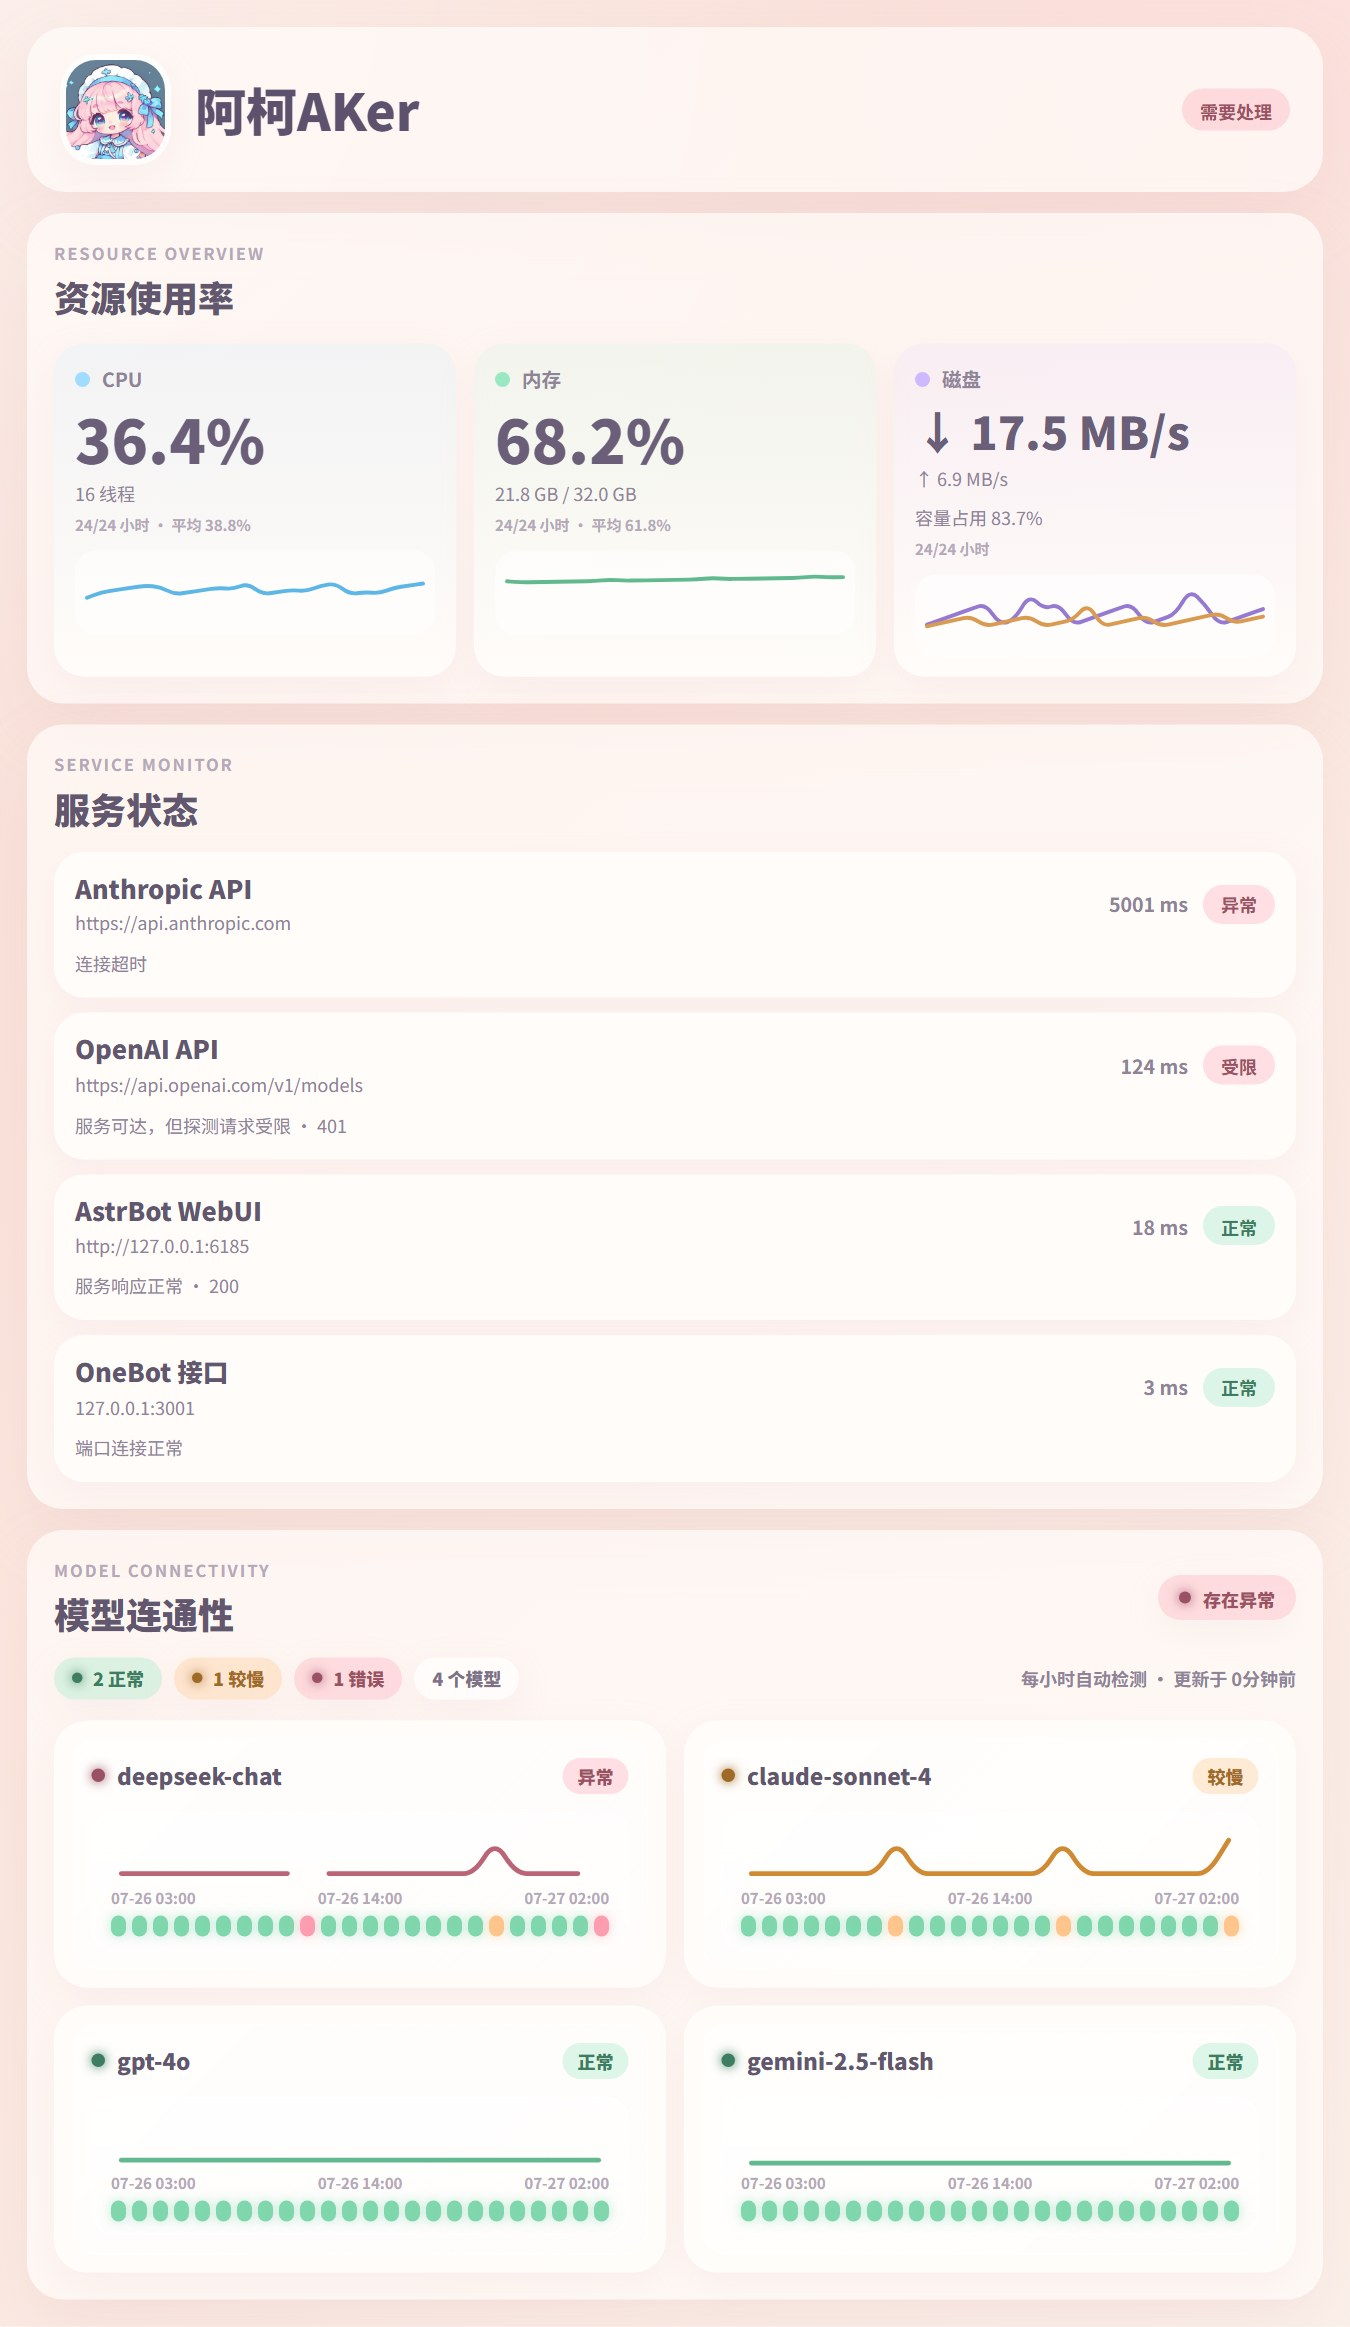
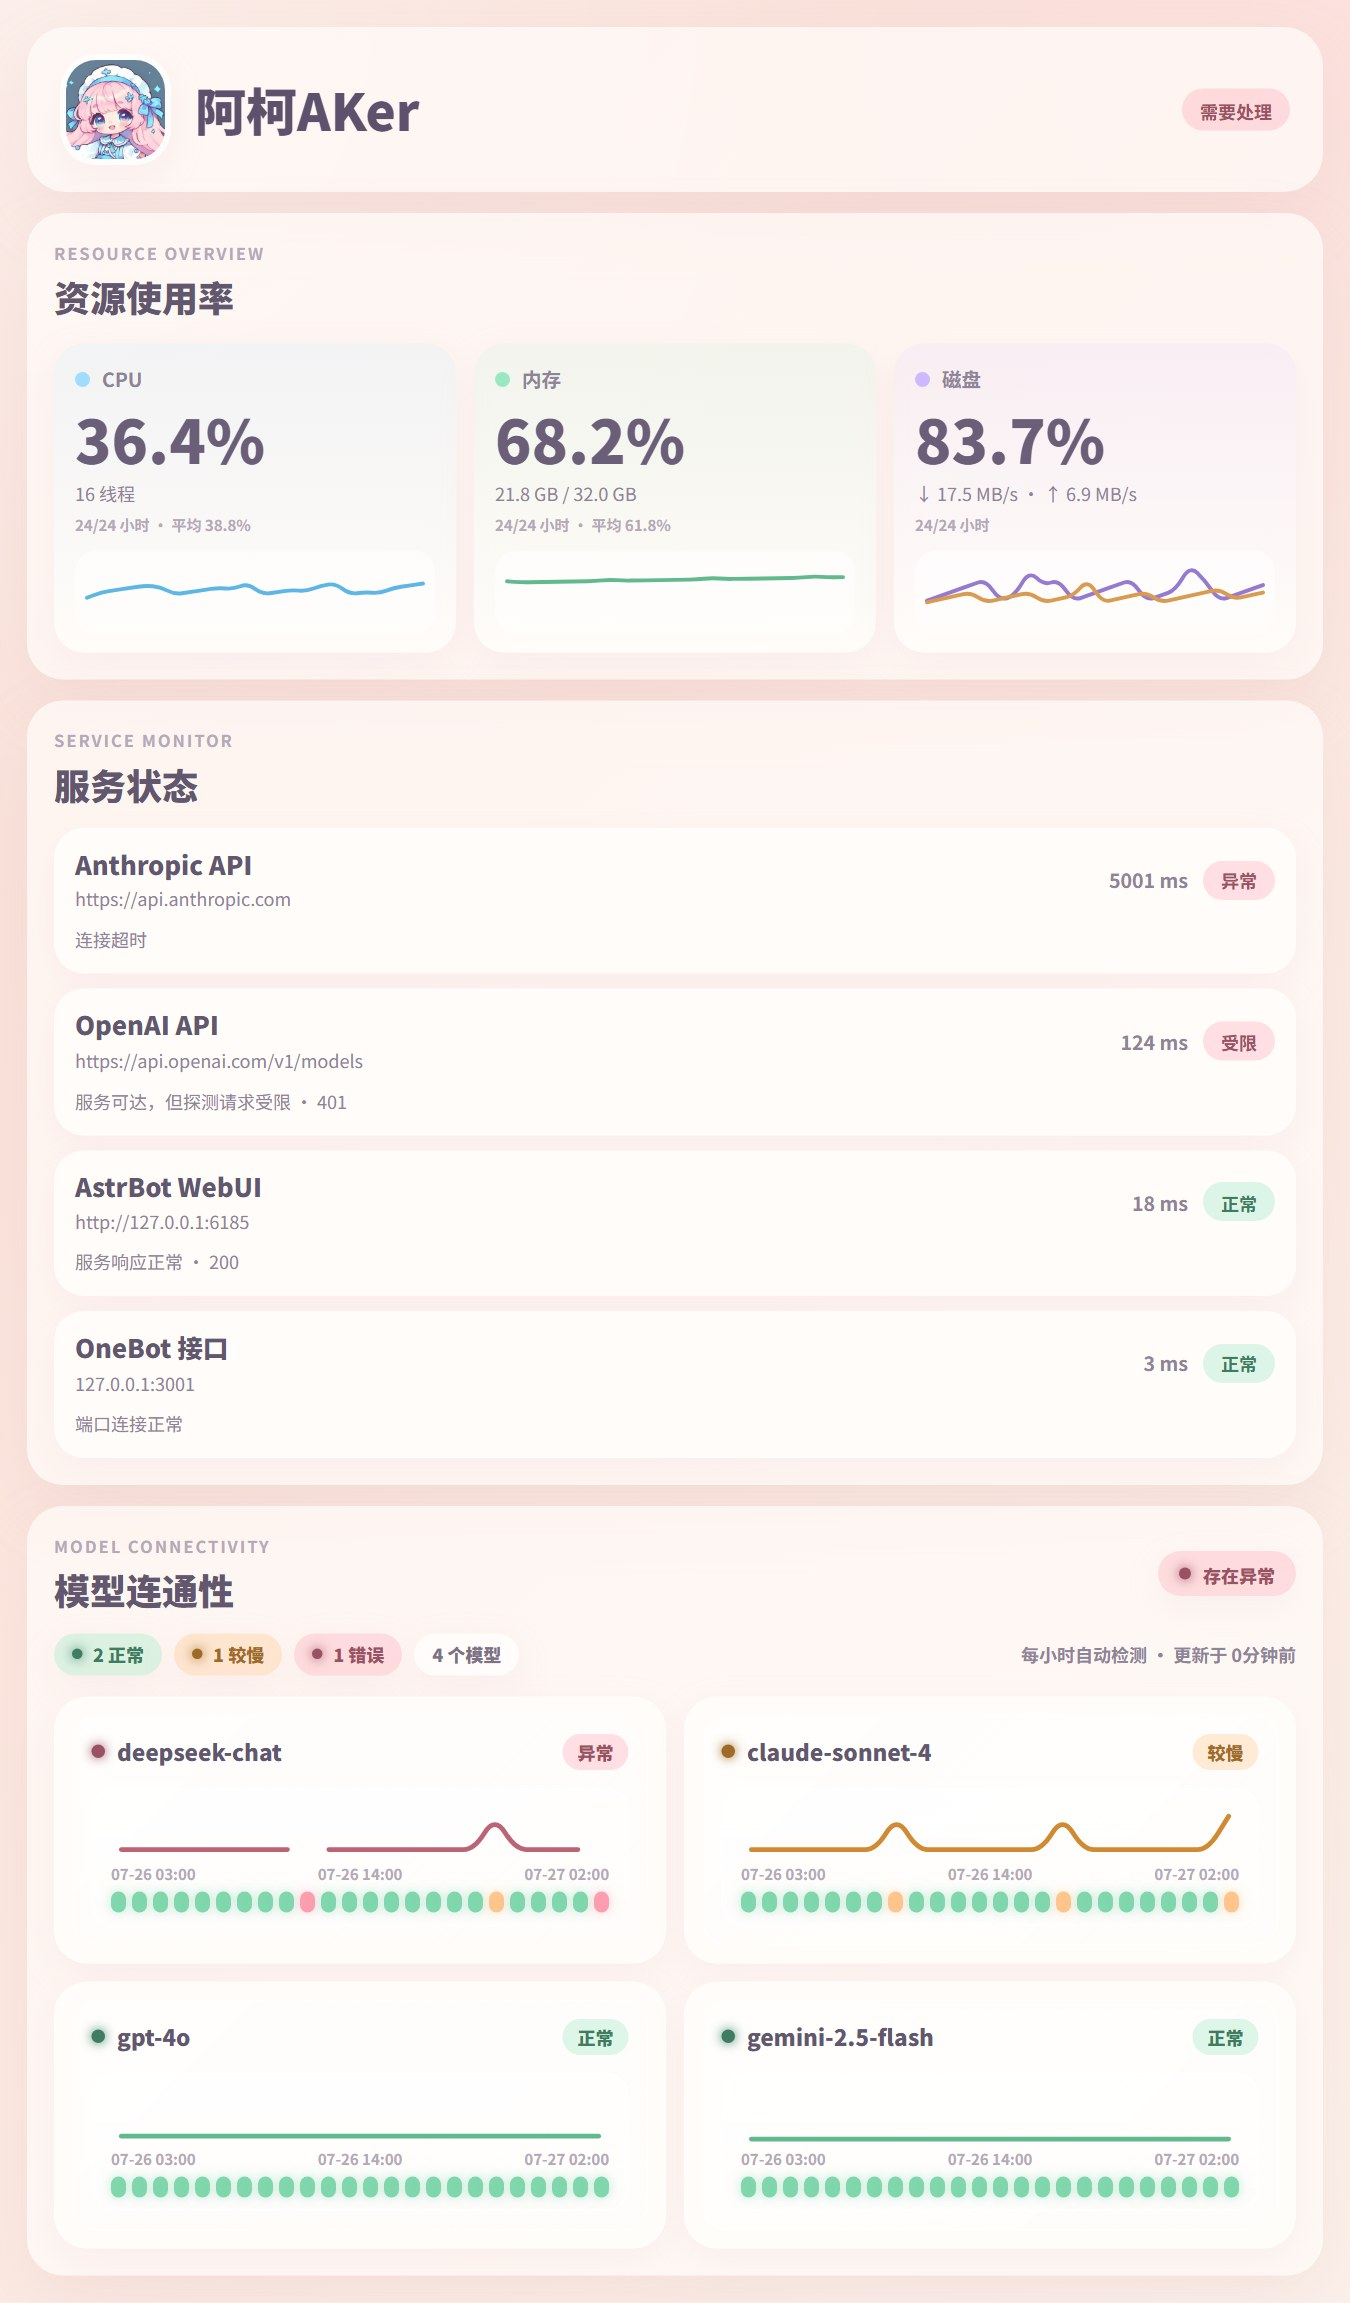
refactor(disk widget): adjust disk metric display layout and data
调整磁盘监控组件的展示逻辑：将磁盘使用率作为主显示值，合并读写速率到详情栏，移除冗余的meter-value-rate样式类，同步更新测试用例和静态预览文件

diff --git a/output_test.html b/output_test.html
@@ -259,11 +259,6 @@ body {
 	color: #6a5e79;
 }
 
-.meter-value-rate {
-	font-size: 30px;
-	white-space: nowrap;
-}
-
 .meter-detail {
 	margin-top: 8px;
 	font-size: 12px;
@@ -993,8 +988,8 @@ body {
         <span class="meter-dot meter-dot-purple"></span>
         <span class="meter-name">磁盘</span>
       </div>
-      <div class="meter-value meter-value-rate">↓ 17.5 MB/s</div>
-<div class="meter-detail">↑ 6.9 MB/s</div>      <div class="meter-detail">容量占用 83.7%</div>
+      <div class="meter-value">83.7%</div>
+      <div class="meter-detail">↓ 17.5 MB/s · ↑ 6.9 MB/s</div>
       <div class="meter-sample">24/24 小时</div>
       <div class="meter-wave">
         <svg class="meter-curve" viewBox="0 0 100 40" preserveAspectRatio="none" aria-label="磁盘读写速率趋势">

diff --git a/resources/index.css b/resources/index.css
@@ -256,11 +256,6 @@ body {
 	color: #6a5e79;
 }
 
-.meter-value-rate {
-	font-size: 30px;
-	white-space: nowrap;
-}
-
 .meter-detail {
 	margin-top: 8px;
 	font-size: 12px;

diff --git a/presentation/view.py b/presentation/view.py
@@ -102,9 +102,7 @@ def _build_resources(computer: dict[str, Any], history: dict[str, list[dict[str,
             read_rate = current.get("read_per_second")
             write_rate = current.get("write_per_second")
             resource_view.update({
-                "current": f"↓ {_bytes_text(read_rate, '/s')}",
-                "secondary": f"↑ {_bytes_text(write_rate, '/s')}",
-                "detail": f"容量占用 {_percent_text(percent)}",
+                "detail": f"↓ {_bytes_text(read_rate, '/s')} · ↑ {_bytes_text(write_rate, '/s')}",
                 "points": "",
                 "read_points": _disk_rate_curve_points(samples, "read_per_second"),
                 "write_points": _disk_rate_curve_points(samples, "write_per_second"),

diff --git a/tests/test_view.py b/tests/test_view.py
@@ -112,8 +112,8 @@ def test_disk_card_uses_io_rate_curves() -> None:
     ]}
     view = build_dashboard_view(computer, history, [], None, {}, Settings(), now_ms=computer["observed_at"])
     disk = next(item for item in view["resources"] if item["id"] == "disk")
-    assert disk["current"] == "↓ 4.0 KB/s"
-    assert disk["secondary"] == "↑ 2.0 KB/s"
+    assert disk["current"] == "50.0%"
+    assert disk["detail"] == "↓ 4.0 KB/s · ↑ 2.0 KB/s"
     assert disk["points"] == ""                           # 容量百分比不再作为磁盘主曲线
     assert disk["read_points"] and disk["write_points"]   # 两条曲线均来自真实速率样本
 
